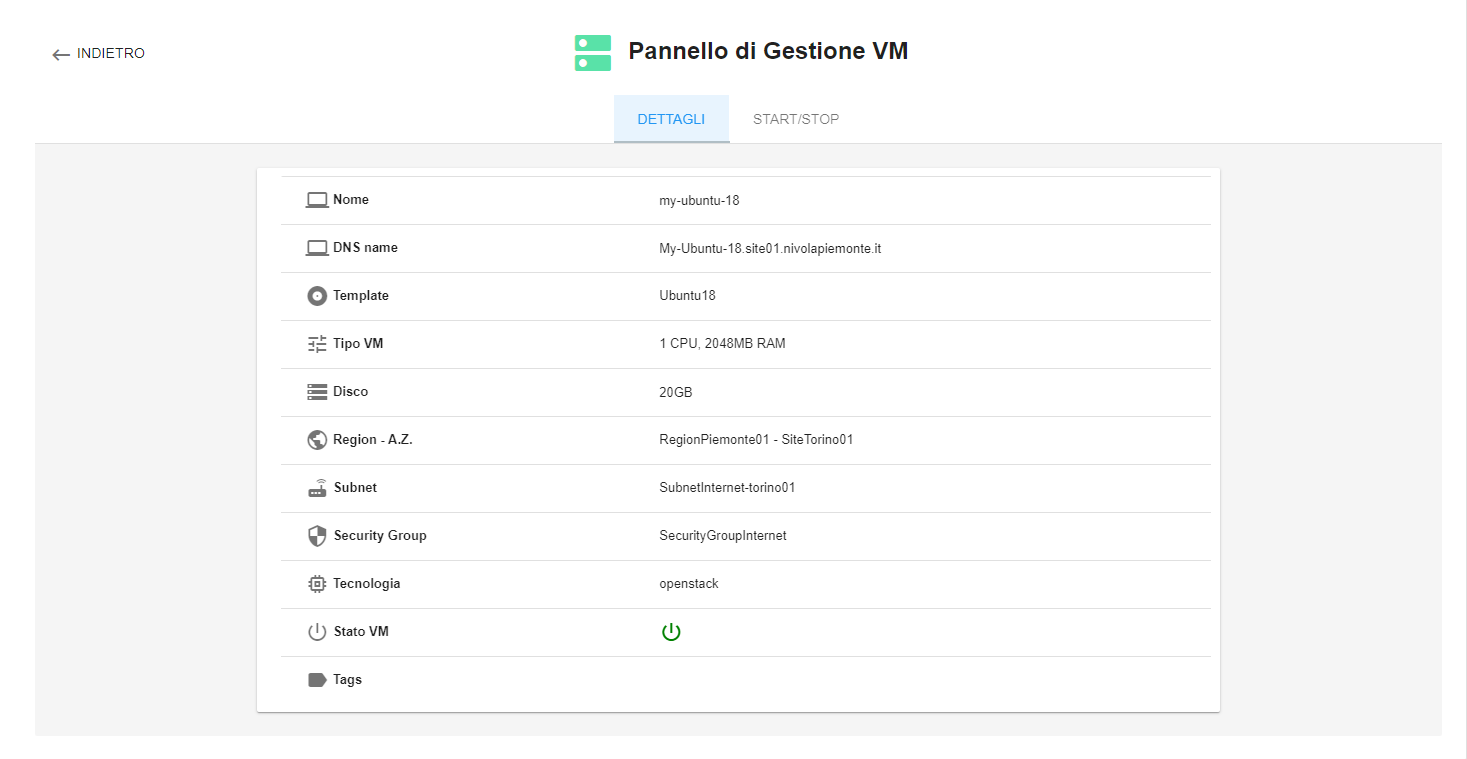
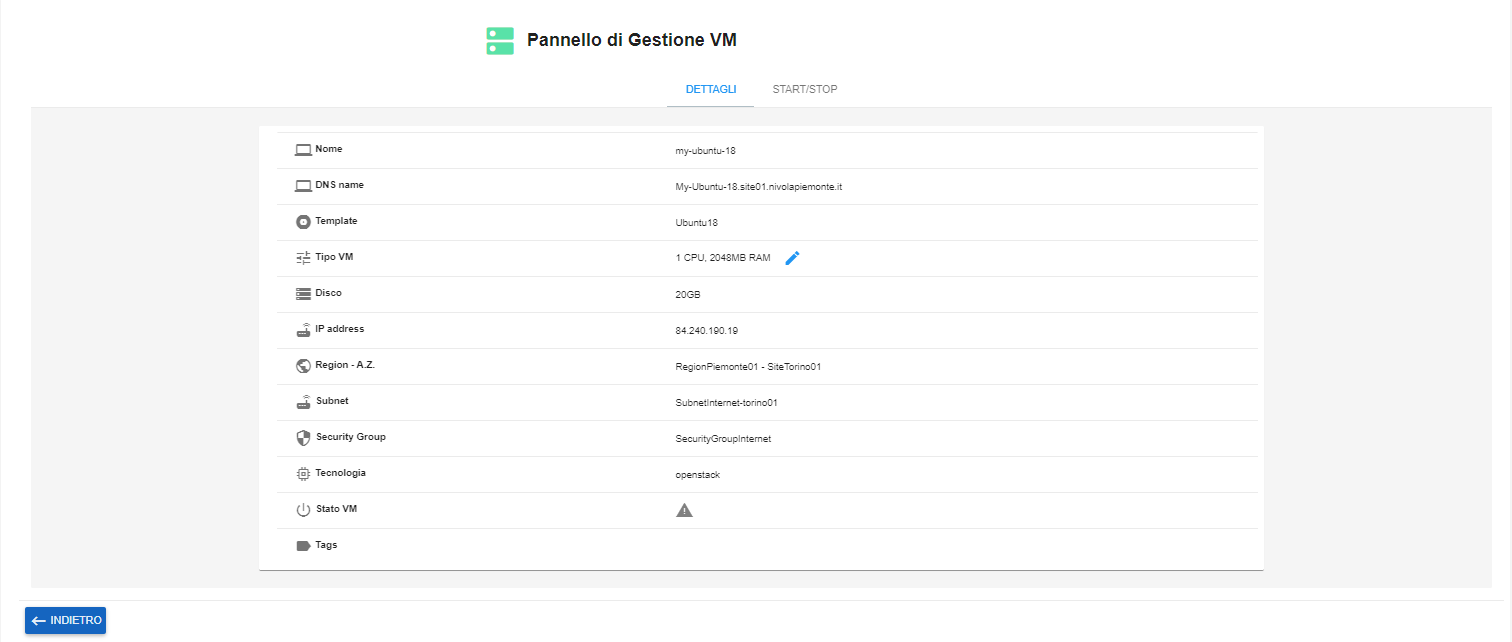
commit 20200213.9

diff --git a/docs/Come_fare_per/11.6_Modificare_tipo_VM.rst b/docs/Come_fare_per/11.6_Modificare_tipo_VM.rst
@@ -1,0 +1,28 @@
+.. _Modificare_tipo_VM:
+
+
+**Modificare il tipo della Virtual Machine**
+============================================
+
+Il sistema consente con la modifica del **tipo della Virtual Machine**
+di cambiare la **CPU** e la **RAM** attribuiti al server in fase
+di creazione.
+
+Per **modificare il tipo VM** è necessario procedere in questo modo:
+
+    1. Selezionare il server dall’**Elenco VM** e fare clic sul bottone **Pannello gestione VM**;
+
+       .. image:: img/Ricerca_VM.png
+
+    2. Cliccare sul simobolo della matita a fianco del **Tipo VM**;
+
+      .. image:: img/VM_pannello_gest.png
+
+    3. Utilizzare il check box a fianco del **flavour** necessario e
+       premere il tasto **MODIFICA**;
+
+      .. image:: img/VM_modifica_flavour.png
+
+    4. Nivola apporterà la variazione richiesta al server;
+
+

diff --git a/docs/Come_fare_per/11.0_Lavorare_con_VM.rst b/docs/Come_fare_per/11.0_Lavorare_con_VM.rst
@@ -11,3 +11,4 @@ Tutte le funzioni per gestire il ciclo di vita delle Virtual Machine
    11.3_Gestire_VM.rst
    11.4_Cancellare_VM.rst
    11.5_Gestione_chiavi_ssh.rst
+   11.6_Modificare_tipo_VM.rst
